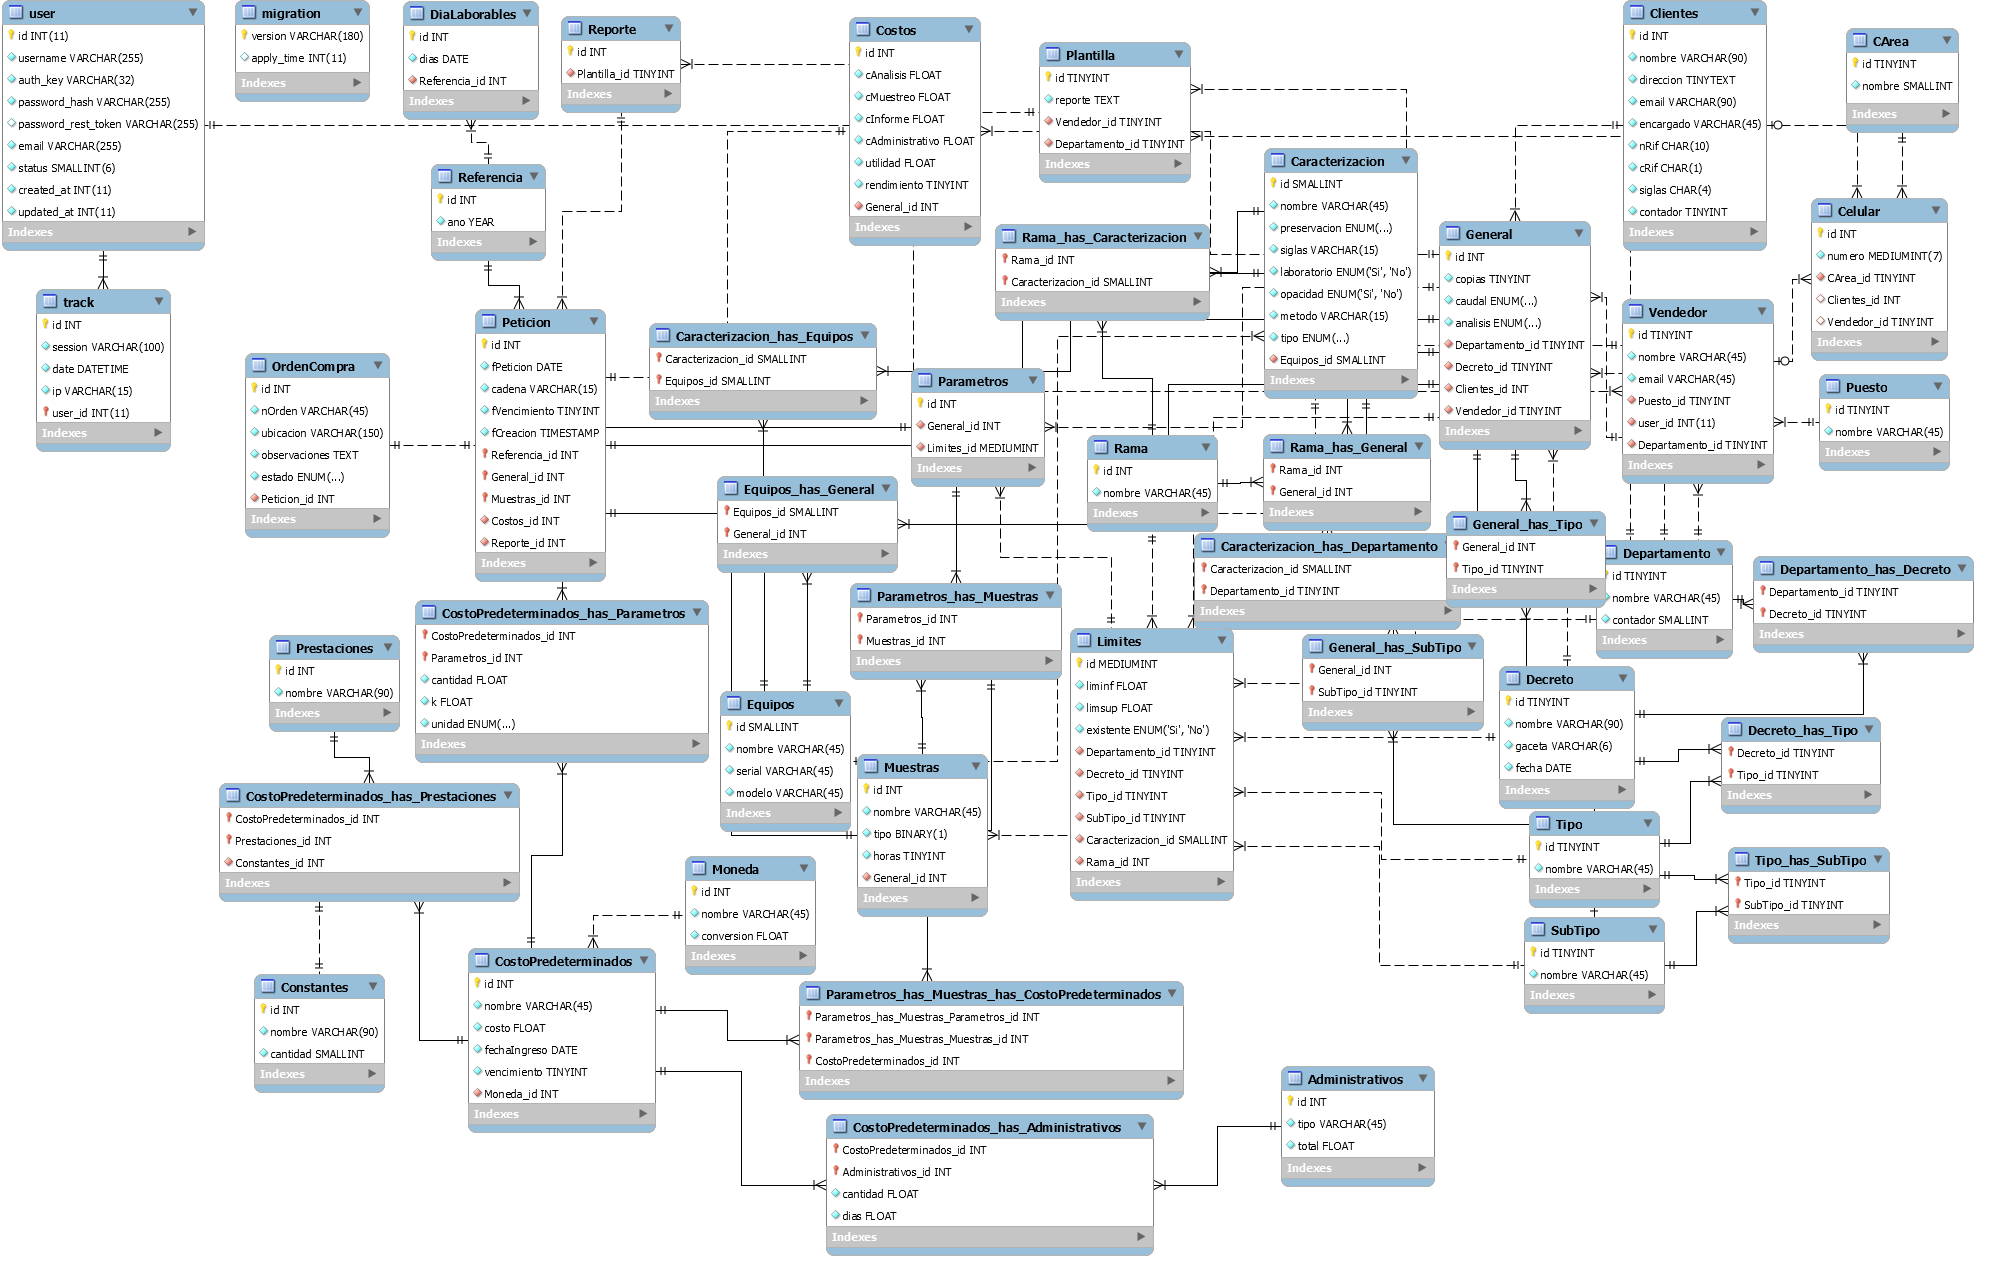
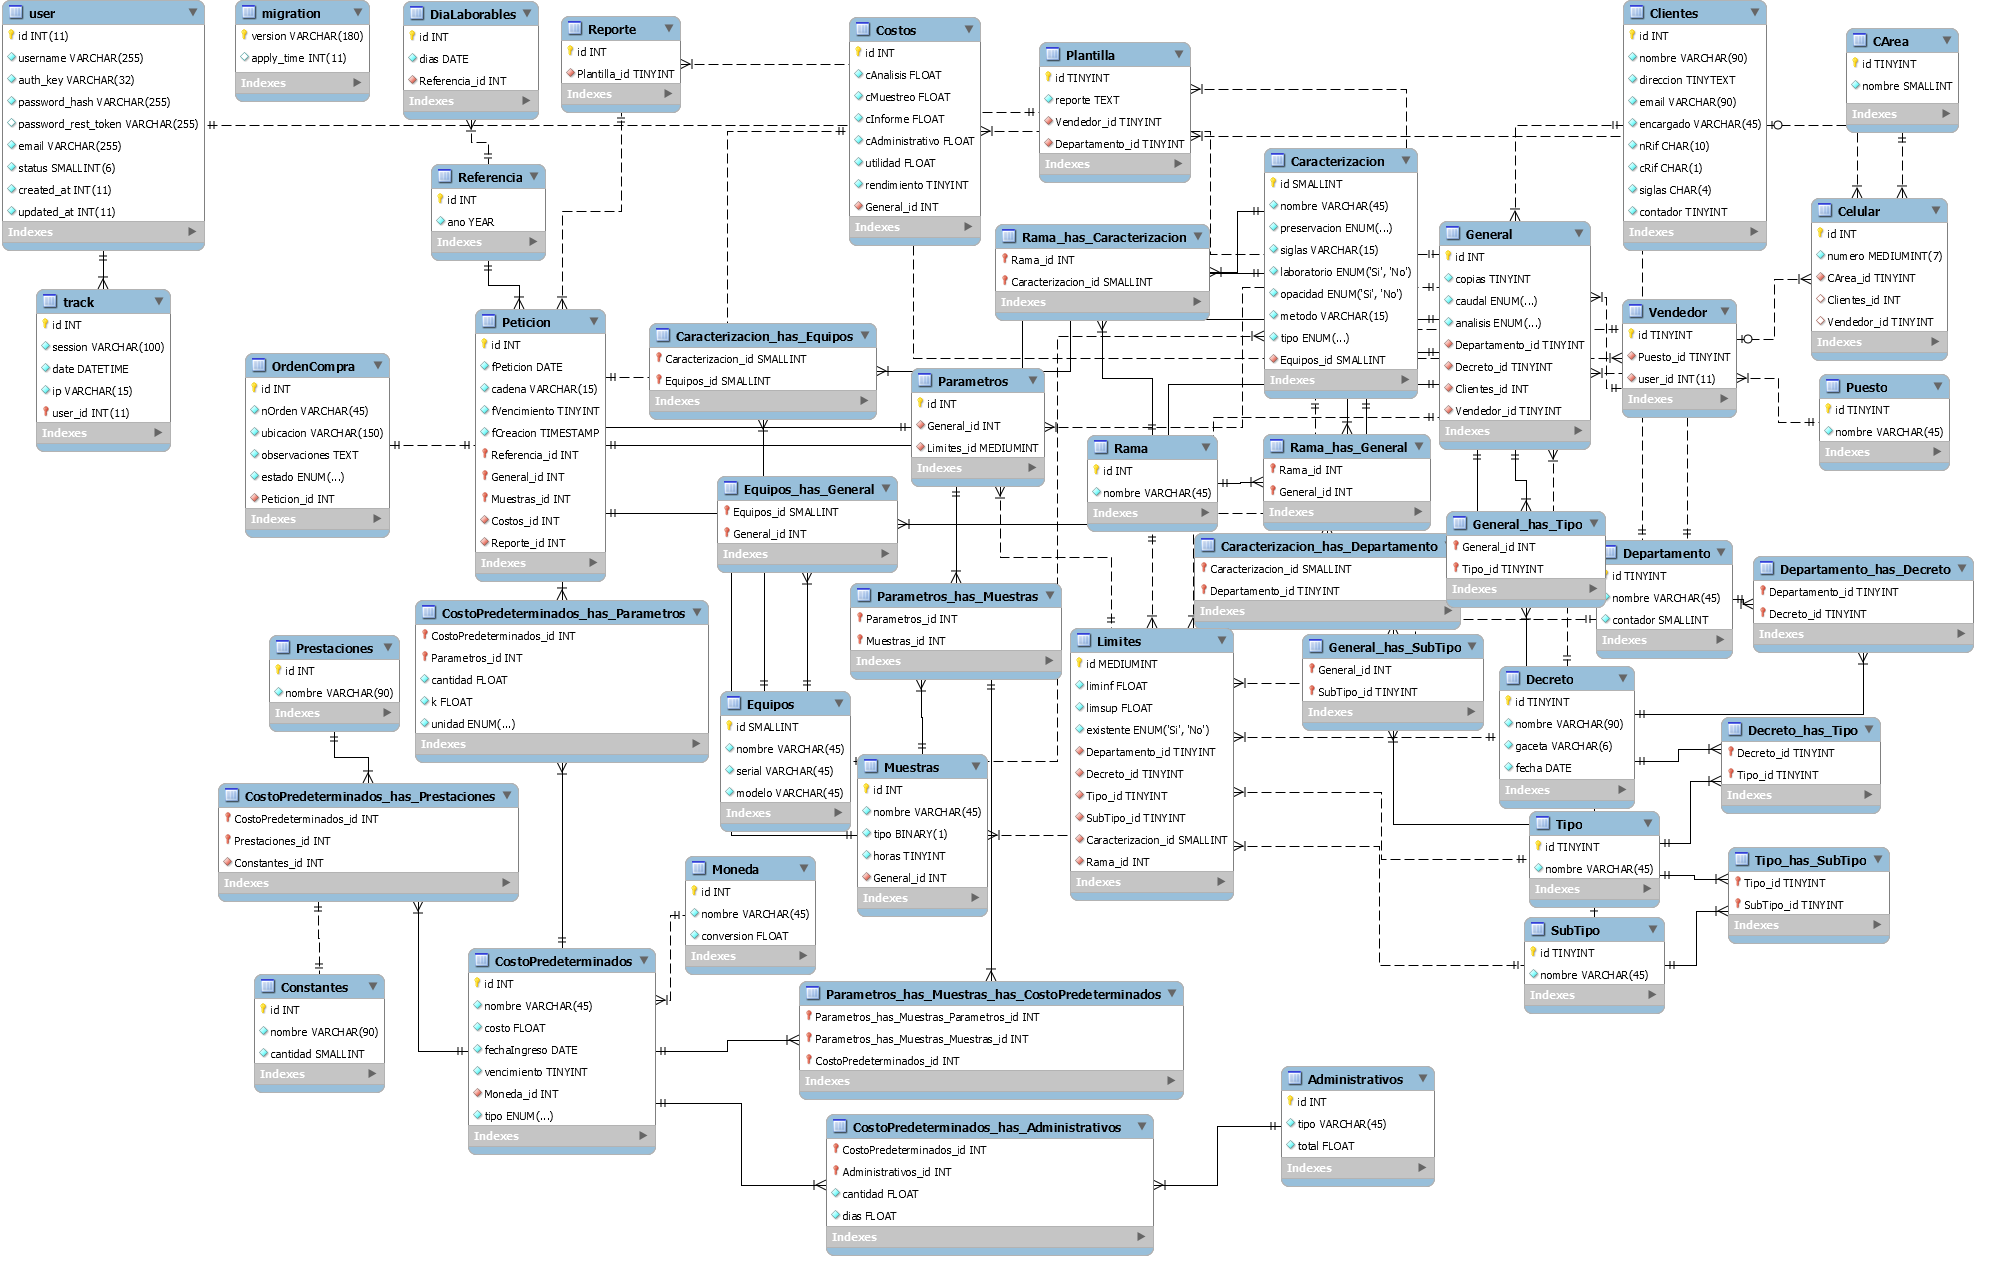
Correciones menores a la base de datos, modelos y crud relacionadas...

Changed region(s): [[0.8096, 0.2141, 0.9031, 0.3976], [0.218, 0.8565, 0.3425, 0.9176], [0.0934, 0.6118, 0.2491, 0.7035]]

diff --git a/common/models/ParametrosHasMuestrasHasCostopredeterminados.php b/common/models/ParametrosHasMuestrasHasCostopredeterminados.php
@@ -10,9 +10,10 @@ use Yii;
  * @property string $Parametros_has_Muestras_Parametros_id
  * @property string $Parametros_has_Muestras_Muestras_id
  * @property string $CostoPredeterminados_id
+ * @property double $cantidad
  *
- * @property ParametrosHasMuestras $parametrosHasMuestrasParametros
  * @property Costopredeterminados $costoPredeterminados
+ * @property ParametrosHasMuestras $parametrosHasMuestrasParametros
  */
 class ParametrosHasMuestrasHasCostopredeterminados extends \yii\db\ActiveRecord
 {
@@ -30,8 +31,9 @@ class ParametrosHasMuestrasHasCostopredeterminados extends \yii\db\ActiveRecord
     public function rules()
     {
         return [
-            [['Parametros_has_Muestras_Parametros_id', 'Parametros_has_Muestras_Muestras_id', 'CostoPredeterminados_id'], 'required'],
-            [['Parametros_has_Muestras_Parametros_id', 'Parametros_has_Muestras_Muestras_id', 'CostoPredeterminados_id'], 'integer']
+            [['Parametros_has_Muestras_Parametros_id', 'Parametros_has_Muestras_Muestras_id', 'CostoPredeterminados_id', 'cantidad'], 'required'],
+            [['Parametros_has_Muestras_Parametros_id', 'Parametros_has_Muestras_Muestras_id', 'CostoPredeterminados_id'], 'integer'],
+            [['cantidad'], 'number']
         ];
     }
 
@@ -44,15 +46,8 @@ class ParametrosHasMuestrasHasCostopredeterminados extends \yii\db\ActiveRecord
             'Parametros_has_Muestras_Parametros_id' => Yii::t('models', 'Parametros Has  Muestras  Parametros ID'),
             'Parametros_has_Muestras_Muestras_id' => Yii::t('models', 'Parametros Has  Muestras  Muestras ID'),
             'CostoPredeterminados_id' => Yii::t('models', 'Costo Predeterminados ID'),
+            'cantidad' => Yii::t('models', 'Cantidad'),
         ];
-    }
-
-    /**
-     * @return \yii\db\ActiveQuery
-     */
-    public function getParametrosHasMuestrasParametros()
-    {
-        return $this->hasOne(ParametrosHasMuestras::className(), ['Parametros_id' => 'Parametros_has_Muestras_Parametros_id', 'Muestras_id' => 'Parametros_has_Muestras_Muestras_id']);
     }
 
     /**
@@ -64,11 +59,19 @@ class ParametrosHasMuestrasHasCostopredeterminados extends \yii\db\ActiveRecord
     }
 
     /**
+     * @return \yii\db\ActiveQuery
+     */
+    public function getParametrosHasMuestrasParametros()
+    {
+        return $this->hasOne(ParametrosHasMuestras::className(), ['Parametros_id' => 'Parametros_has_Muestras_Parametros_id', 'Muestras_id' => 'Parametros_has_Muestras_Muestras_id']);
+    }
+
+    /**
      * @inheritdoc
-     * @return \common\models\query\CostopredeterminadosHasQuery the active query used by this AR class.
+     * @return \common\models\query\ParametrosHasMuestrasHasCostopredeterminadosQuery the active query used by this AR class.
      */
     public static function find()
     {
-        return new \common\models\query\CostopredeterminadosHasQuery(get_called_class());
+        return new \common\models\query\ParametrosHasMuestrasHasCostopredeterminadosQuery(get_called_class());
     }
 }

diff --git a/common/models/CostoPredeterminados.php b/common/models/CostoPredeterminados.php
@@ -13,6 +13,7 @@ use Yii;
  * @property string $fechaIngreso
  * @property integer $vencimiento
  * @property string $Moneda_id
+ * @property string $tipo
  *
  * @property Moneda $moneda
  * @property CostopredeterminadosHasAdministrativos[] $costopredeterminadosHasAdministrativos
@@ -39,10 +40,11 @@ class Costopredeterminados extends \yii\db\ActiveRecord
     public function rules()
     {
         return [
-            [['nombre', 'costo', 'fechaIngreso', 'vencimiento', 'Moneda_id'], 'required'],
+            [['nombre', 'costo', 'fechaIngreso', 'vencimiento', 'Moneda_id', 'tipo'], 'required'],
             [['costo'], 'number'],
             [['fechaIngreso'], 'safe'],
             [['vencimiento', 'Moneda_id'], 'integer'],
+            [['tipo'], 'string'],
             [['nombre'], 'string', 'max' => 45]
         ];
     }
@@ -59,6 +61,7 @@ class Costopredeterminados extends \yii\db\ActiveRecord
             'fechaIngreso' => Yii::t('models', 'Fecha Ingreso'),
             'vencimiento' => Yii::t('models', 'Vencimiento'),
             'Moneda_id' => Yii::t('models', 'Moneda ID'),
+            'tipo' => Yii::t('models', 'Tipo'),
         ];
     }
 

diff --git a/common/models/query/ParametrosHasMuestrasHasCostopredeterminadosQuery.php b/common/models/query/ParametrosHasMuestrasHasCostopredeterminadosQuery.php
@@ -1,0 +1,35 @@
+<?php
+
+namespace common\models\query;
+
+/**
+ * This is the ActiveQuery class for [[\common\models\ParametrosHasMuestrasHasCostopredeterminados]].
+ *
+ * @see \common\models\ParametrosHasMuestrasHasCostopredeterminados
+ */
+class ParametrosHasMuestrasHasCostopredeterminadosQuery extends \yii\db\ActiveQuery
+{
+    /*public function active()
+    {
+        $this->andWhere('[[status]]=1');
+        return $this;
+    }*/
+
+    /**
+     * @inheritdoc
+     * @return \common\models\ParametrosHasMuestrasHasCostopredeterminados[]|array
+     */
+    public function all($db = null)
+    {
+        return parent::all($db);
+    }
+
+    /**
+     * @inheritdoc
+     * @return \common\models\ParametrosHasMuestrasHasCostopredeterminados|array|null
+     */
+    public function one($db = null)
+    {
+        return parent::one($db);
+    }
+}

diff --git a/common/models/search/ParametrosHasMuestrasHasCostopredeterminadosSearch.php b/common/models/search/ParametrosHasMuestrasHasCostopredeterminadosSearch.php
@@ -19,6 +19,7 @@ class ParametrosHasMuestrasHasCostopredeterminadosSearch extends ParametrosHasMu
     {
         return [
             [['Parametros_has_Muestras_Parametros_id', 'Parametros_has_Muestras_Muestras_id', 'CostoPredeterminados_id'], 'integer'],
+            [['cantidad'], 'number'],
         ];
     }
 
@@ -58,6 +59,7 @@ class ParametrosHasMuestrasHasCostopredeterminadosSearch extends ParametrosHasMu
             'Parametros_has_Muestras_Parametros_id' => $this->Parametros_has_Muestras_Parametros_id,
             'Parametros_has_Muestras_Muestras_id' => $this->Parametros_has_Muestras_Muestras_id,
             'CostoPredeterminados_id' => $this->CostoPredeterminados_id,
+            'cantidad' => $this->cantidad,
         ]);
 
         return $dataProvider;

diff --git a/common/models/search/CostoPredeterminadosSearch.php b/common/models/search/CostoPredeterminadosSearch.php
@@ -19,7 +19,7 @@ class CostopredeterminadosSearch extends Costopredeterminados
     {
         return [
             [['id', 'vencimiento', 'Moneda_id'], 'integer'],
-            [['nombre', 'fechaIngreso'], 'safe'],
+            [['nombre', 'fechaIngreso', 'tipo'], 'safe'],
             [['costo'], 'number'],
         ];
     }
@@ -64,7 +64,8 @@ class CostopredeterminadosSearch extends Costopredeterminados
             'Moneda_id' => $this->Moneda_id,
         ]);
 
-        $query->andFilterWhere(['like', 'nombre', $this->nombre]);
+        $query->andFilterWhere(['like', 'nombre', $this->nombre])
+            ->andFilterWhere(['like', 'tipo', $this->tipo]);
 
         return $dataProvider;
     }

diff --git a/backend/views/costopredeterminados/_form.php b/backend/views/costopredeterminados/_form.php
@@ -22,6 +22,8 @@ use yii\widgets\ActiveForm;
 
     <?= $form->field($model, 'Moneda_id')->textInput(['maxlength' => true]) ?>
 
+    <?= $form->field($model, 'tipo')->dropDownList([ 'Administrativo' => 'Administrativo', 'Muestras' => 'Muestras', 'Parametros' => 'Parametros', 'Prestaciones' => 'Prestaciones', ], ['prompt' => '']) ?>
+
     <div class="form-group">
         <?= Html::submitButton($model->isNewRecord ? Yii::t('models', 'Create') : Yii::t('models', 'Update'), ['class' => $model->isNewRecord ? 'btn btn-success' : 'btn btn-primary']) ?>
     </div>

diff --git a/backend/views/parametros-has-muestras-has-costopredeterminados/_form.php b/backend/views/parametros-has-muestras-has-costopredeterminados/_form.php
@@ -18,6 +18,8 @@ use yii\widgets\ActiveForm;
 
     <?= $form->field($model, 'CostoPredeterminados_id')->textInput(['maxlength' => true]) ?>
 
+    <?= $form->field($model, 'cantidad')->textInput() ?>
+
     <div class="form-group">
         <?= Html::submitButton($model->isNewRecord ? Yii::t('models', 'Create') : Yii::t('models', 'Update'), ['class' => $model->isNewRecord ? 'btn btn-success' : 'btn btn-primary']) ?>
     </div>

diff --git a/backend/views/costopredeterminados/_search.php b/backend/views/costopredeterminados/_search.php
@@ -27,6 +27,8 @@ use yii\widgets\ActiveForm;
 
     <?php // echo $form->field($model, 'Moneda_id') ?>
 
+    <?php // echo $form->field($model, 'tipo') ?>
+
     <div class="form-group">
         <?= Html::submitButton(Yii::t('models', 'Search'), ['class' => 'btn btn-primary']) ?>
         <?= Html::resetButton(Yii::t('models', 'Reset'), ['class' => 'btn btn-default']) ?>

diff --git a/backend/views/parametros-has-muestras-has-costopredeterminados/_search.php b/backend/views/parametros-has-muestras-has-costopredeterminados/_search.php
@@ -21,6 +21,8 @@ use yii\widgets\ActiveForm;
 
     <?= $form->field($model, 'CostoPredeterminados_id') ?>
 
+    <?= $form->field($model, 'cantidad') ?>
+
     <div class="form-group">
         <?= Html::submitButton(Yii::t('models', 'Search'), ['class' => 'btn btn-primary']) ?>
         <?= Html::resetButton(Yii::t('models', 'Reset'), ['class' => 'btn btn-default']) ?>

diff --git a/backend/views/parametros-has-muestras-has-costopredeterminados/view.php b/backend/views/parametros-has-muestras-has-costopredeterminados/view.php
@@ -31,6 +31,7 @@ $this->params['breadcrumbs'][] = $this->title;
             'Parametros_has_Muestras_Parametros_id',
             'Parametros_has_Muestras_Muestras_id',
             'CostoPredeterminados_id',
+            'cantidad',
         ],
     ]) ?>
 

diff --git a/backend/views/costopredeterminados/index.php b/backend/views/costopredeterminados/index.php
@@ -35,6 +35,7 @@ $this->params['breadcrumbs'][] = $this->title;
             'fechaIngreso',
             'vencimiento',
             // 'Moneda_id',
+            // 'tipo', 
 
             ['class' => 'yii\grid\ActionColumn'],
         ],

diff --git a/backend/views/costopredeterminados/view.php b/backend/views/costopredeterminados/view.php
@@ -34,6 +34,7 @@ $this->params['breadcrumbs'][] = $this->title;
             'fechaIngreso',
             'vencimiento',
             'Moneda_id',
+            'tipo',
         ],
     ]) ?>
 
